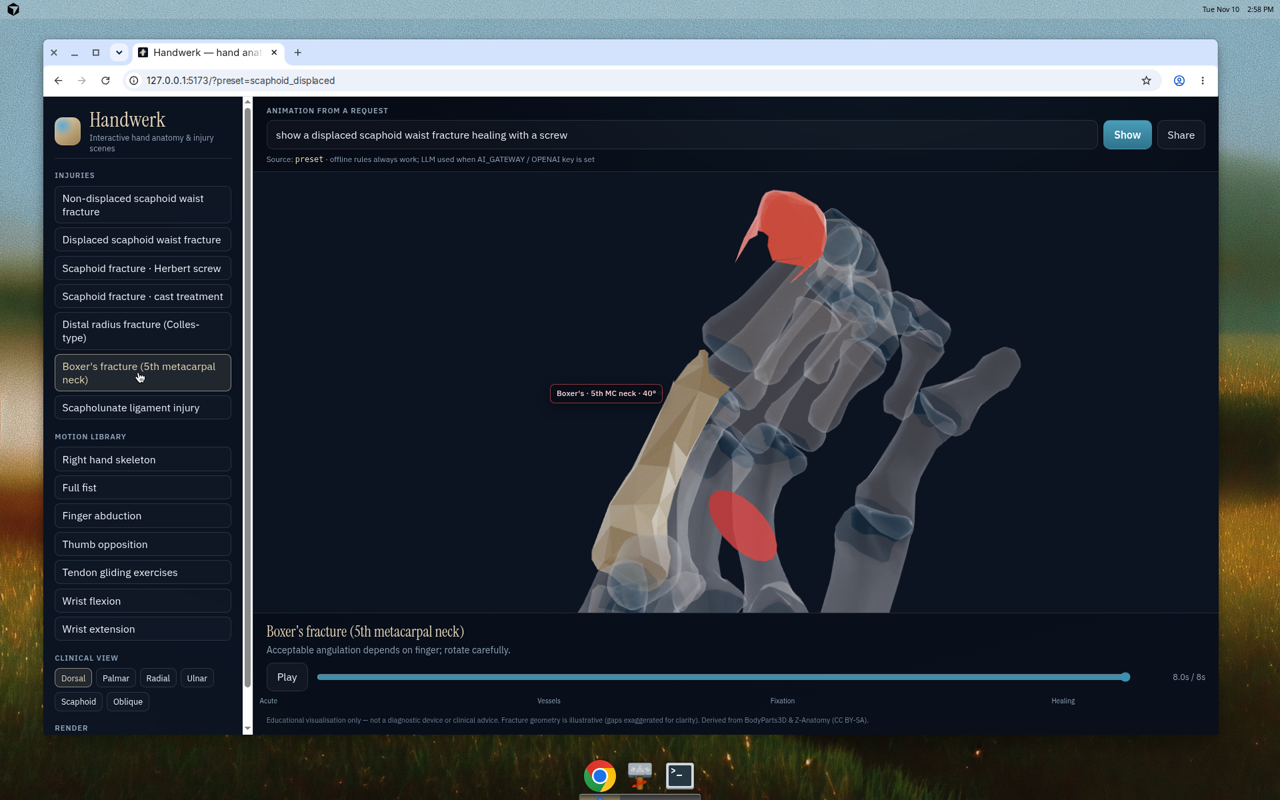
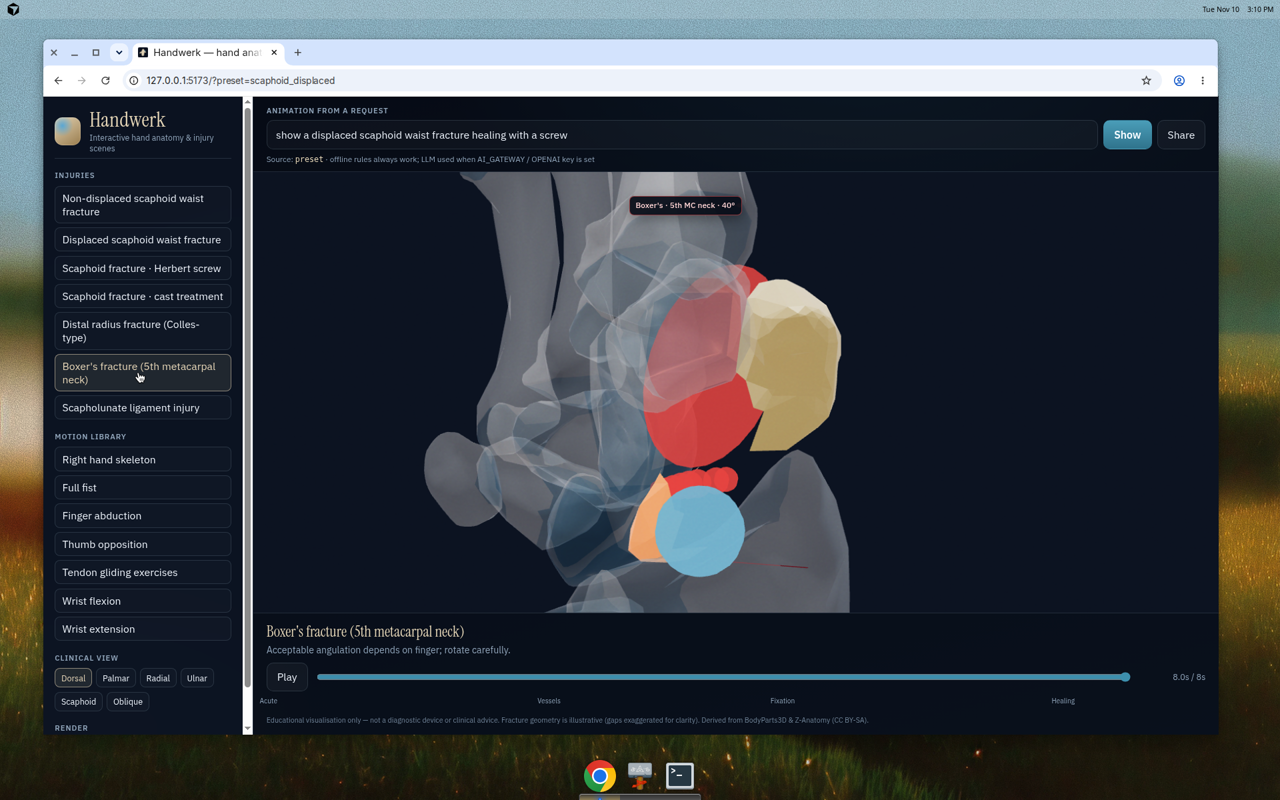
Polish boxers angulation cue and cast label density
- Boxer's: rest pose, post-pose angulation, explicit bent shaft overlay
- Cast: fewer labels, stronger cast opacity

Changed region(s): [[0.3125, 0.1875, 0.8125, 0.7812]]

diff --git a/web/src/components/InjuryOverlays.tsx b/web/src/components/InjuryOverlays.tsx
@@ -332,14 +332,15 @@ function ScaphoidFractureViz({
         )}
 
         {injury.fixation === 'cast' && (
-          <mesh scale={[1.2, 1.4, 1.2]} position={[0, 0.002, -0.01]}>
-            <sphereGeometry args={[0.03, 28, 18]} />
+          <mesh scale={[1.35, 1.55, 1.35]} position={[0.002, 0.004, -0.012]}>
+            <sphereGeometry args={[0.032, 28, 18]} />
             <meshStandardMaterial
-              color="#d9c49a"
+              color="#cbb892"
               transparent
-              opacity={0.2 + castPhase * 0.28}
+              opacity={0.28 + castPhase * 0.32}
               depthWrite={false}
               side={THREE.DoubleSide}
+              roughness={0.9}
             />
           </mesh>
         )}
@@ -351,11 +352,13 @@ function ScaphoidFractureViz({
             <sphereGeometry args={[0.004, 16, 12]} />
             <meshBasicMaterial color="#5aa7d4" transparent opacity={0.95} />
           </mesh>
-          <AnnotationLabel anchor={snuff} text="Anatomical snuffbox" side="right" tone="info" />
+          {injury.fixation !== 'cast' && (
+            <AnnotationLabel anchor={snuff} text="Anatomical snuffbox" side="right" tone="info" />
+          )}
         </>
       )}
 
-      {injury.showBloodSupply && (
+      {injury.showBloodSupply && injury.fixation !== 'cast' && (
         <>
           <BloodFlow from={distalVessel} to={proximalPole} active />
           <AnnotationLabel
@@ -371,6 +374,9 @@ function ScaphoidFractureViz({
             tone="warn"
           />
         </>
+      )}
+      {injury.showBloodSupply && injury.fixation === 'cast' && (
+        <BloodFlow from={distalVessel} to={proximalPole} active />
       )}
 
       <AnnotationLabel
@@ -399,17 +405,25 @@ function ScaphoidFractureViz({
       )}
       {injury.fixation === 'cast' && (
         <AnnotationLabel
-          anchor={center.clone().add(new THREE.Vector3(-0.012, 0.02, 0))}
+          anchor={center.clone().add(new THREE.Vector3(-0.018, 0.022, 0.004))}
           text="Thumb-spica cast"
           side="left"
           tone="info"
         />
       )}
-      {healAnim > 0.15 && (
+      {healAnim > 0.15 && injury.fixation !== 'cast' && (
         <AnnotationLabel
           anchor={center.clone().add(new THREE.Vector3(0, -0.022, 0.01))}
           text={`Healing · week ${injury.healingWeek} (callus)`}
           side="bottom"
+          tone="ok"
+        />
+      )}
+      {healAnim > 0.15 && injury.fixation === 'cast' && (
+        <AnnotationLabel
+          anchor={center.clone().add(new THREE.Vector3(0.016, -0.02, 0.01))}
+          text={`Healing · week ${injury.healingWeek}`}
+          side="right"
           tone="ok"
         />
       )}
@@ -539,28 +553,45 @@ function BoxersViz({
     }
   }, [bone])
 
+  // Run after HandModel pose apply so angulation is not overwritten
   useFrame(() => {
     if (!bone || !base.current) return
     bone.rotation.x = base.current.rx + bend
-    bone.rotation.z = base.current.rz + 0.08 * open
-  })
+    bone.rotation.z = base.current.rz + 0.12 * open
+  }, 1)
 
   if (!bone) return null
   const c = worldCenter(bone)
-  const neck = c.clone().add(new THREE.Vector3(0.002, -0.004, 0.012))
+  const neck = c.clone().add(new THREE.Vector3(-0.002, -0.006, 0.018))
+  // Explicit 40° chevron so the angulation reads even if bone axes are subtle
+  const shaftDir = new THREE.Vector3(0, 0, 0.016)
+  const headDir = new THREE.Vector3(0, -Math.sin(bend), Math.cos(bend) * 0.016)
 
   return (
     <group>
       <mesh position={neck}>
-        <sphereGeometry args={[0.006, 16, 12]} />
-        <meshBasicMaterial color="#e04040" transparent opacity={0.85} depthWrite={false} />
+        <sphereGeometry args={[0.007, 16, 12]} />
+        <meshBasicMaterial color="#e04040" transparent opacity={0.9} depthWrite={false} />
       </mesh>
-      <mesh position={neck} rotation={[Math.PI / 2, 0.2, 0]}>
-        <circleGeometry args={[0.01, 20]} />
-        <meshBasicMaterial color="#d04545" transparent opacity={0.7} side={THREE.DoubleSide} depthWrite={false} />
+      <mesh position={neck} rotation={[Math.PI / 2.2, 0.35, 0.1]}>
+        <torusGeometry args={[0.011, 0.0018, 8, 24]} />
+        <meshBasicMaterial color="#ff6060" transparent opacity={0.85} depthWrite={false} />
+      </mesh>
+      {/* Proximal shaft cue */}
+      <mesh position={neck.clone().add(shaftDir.clone().multiplyScalar(-0.7))} rotation={[Math.PI / 2, 0, 0]}>
+        <cylinderGeometry args={[0.0032, 0.0032, 0.022, 10]} />
+        <meshStandardMaterial color="#e2d3b5" emissive="#b8955a" emissiveIntensity={0.25} />
+      </mesh>
+      {/* Distal head cue — clearly angulated */}
+      <mesh
+        position={neck.clone().add(headDir)}
+        rotation={[bend, 0.08, 0.05]}
+      >
+        <cylinderGeometry args={[0.0045, 0.003, 0.02, 10]} />
+        <meshStandardMaterial color="#e87060" emissive="#d04030" emissiveIntensity={0.55} />
       </mesh>
       <AnnotationLabel
-        anchor={neck.clone().add(new THREE.Vector3(-0.012, -0.008, 0.01))}
+        anchor={neck.clone().add(new THREE.Vector3(-0.014, -0.01, 0.012))}
         text={`Boxer's · 5th MC neck · ${ang}°`}
         side="left"
         tone="danger"

diff --git a/web/src/components/HandModel.tsx b/web/src/components/HandModel.tsx
@@ -121,7 +121,7 @@ export function HandModel({ poses }: { poses: PoseBook }) {
 
   useFrame((_, dt) => {
     if (injuryMode) {
-      // Keep rest / preset pose; injury overlays animate via sceneTime
+      // Pose once-ish; overlays (e.g. boxers angulation) apply after at priority 1
       if (spec.pose) applyPoseFromSpec(root, spec, poses, 0)
       return
     }

diff --git a/web/src/scene/presets.ts b/web/src/scene/presets.ts
@@ -181,7 +181,7 @@ export const SCENES = {
     mode: 'solid',
     highlights: ['Metacarpal_5'],
     dimOthers: true,
-    pose: 'fist',
+    pose: 'rest',
     duration: 8,
     injuries: [
       {
